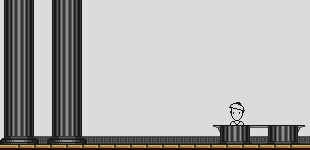
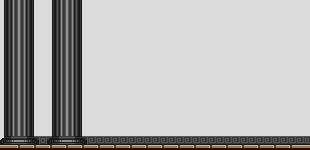
Added Paintings

Changed region(s): [[0.6677, 0.6667, 1.0, 0.96]]

diff --git a/assets/js/ai/main.js b/assets/js/ai/main.js
@@ -1,5 +1,6 @@
 var aiDir = "right";
 var walkInterval;
+var aiWalkDuration = 11000;
 
 function loadAI() {
   $("#ai").animateSprite({
@@ -13,22 +14,26 @@ function loadAI() {
     }
   });
 
+  walkInterval = setInterval(function(){ $('#ai').animate({left: '+=20'}, 200); }, 200);
+  $('#ai').removeClass("turn-left");
+  $('#ai').addClass("turn-right");
+  aiDir = "left";
+
   setInterval(
     function(){
       clearInterval(walkInterval);
       $("#ai").stop(true);
-      console.log(aiDir);
       if (aiDir == "right") {
-        walkInterval = setInterval(function(){ $('#ai').animate({left: '+=20'}, charSpeed); }, 40);
+        walkInterval = setInterval(function(){ $('#ai').animate({left: '+=20'}, 200); }, 200);
         $('#ai').removeClass("turn-left");
         $('#ai').addClass("turn-right");
         aiDir = "left";
       } else if (aiDir == "left") {
-        walkInterval = setInterval(function(){ $('#ai').animate({left: '-=20'}, charSpeed); }, 40);
+        walkInterval = setInterval(function(){ $('#ai').animate({left: '-=20'}, 200); }, 200);
         $('#ai').removeClass("turn-right");
         $('#ai').addClass("turn-left");
         aiDir = "right";
       }
-    }, 3000
+    }, aiWalkDuration
   );
 }

diff --git a/assets/css/game/game.css b/assets/css/game/game.css
@@ -81,9 +81,39 @@
 
   position: absolute;
   bottom: 105px;
-	left: 200px;
+	left: 300px;
 
-  z-index: 500;
+  z-index: 400;
+
+  cursor: pointer;
+}
+
+.painting {
+  position: absolute;
+  top: 28%;
+  left: 40%;
+  width: 700px;
+  height: 300px;
+}
+
+.painting img {
+  width: 100%;
+  height: auto;
+}
+
+.text-bubble {
+  position: absolute;
+  top: -35px;
+  left: -30px;
+  width: 75px;
+  height: 30px;
+  font-size: 0.3em;
+  padding: 2px 5px 10px 5px;
+  background: url("../../img/game/textbubble.png") no-repeat center center;
+  -webkit-background-size: contain;
+  -moz-background-size: contain;
+  -o-background-size: contain;
+  background-size: contain;
 }
 
 .inventory-container {
@@ -145,6 +175,14 @@
 
 .turn-right {
   transform: scale(6,6) rotateY(0deg)!important;
+}
+
+.turn-right > .text-bubble {
+  transform: rotateY(0deg)!important;
+}
+
+.turn-left > .text-bubble {
+  transform: rotateY(180deg)!important;
 }
 
 #overlay {

diff --git a/index.html b/index.html
@@ -99,7 +99,7 @@
     <div id="load">
       <div class="load-bar">
         <div class="inner">
-
+          
         </div>
       </div>
     </div>

diff --git a/content/room.php b/content/room.php
@@ -5,16 +5,25 @@
     "test-sword"
   );
   $r_array = $item[array_rand($item)];
+  $painting = array(
+    "1",
+    "1",
+    "1"
+  );
+  $r_painting = $painting[array_rand($painting)];
 ?>
     <div class="room <?php if ($room == 0) {echo "room-0";} else {echo "room-1";} ?>">
       <div id="overlay">
+        <?php if ($room != 0) { ?>
         <div class="pickup-item" data-item="<?php echo $r_array; ?>" data-name="Test Salad \o/" style="left: <?php echo rand(0, 100); ?>%;">
           <img src="assets/img/game/items/<?php echo $r_array; ?>.png" alt="Test Salad" class="hover"/>
         </div>
+        <?php } ?>
       </div>
       <?php
         if ($room == 0) {
-          echo "<div id='ai'></div>";
+          echo "<div id='ai'><div class='text-bubble'>Find me the missing pieces of this painting</div></div>";
+          echo "<div class='painting'><img src='assets/img/paintings/" . $r_painting . ".png'></div>";
         }
       ?>
     </div>

diff --git a/content/game.php b/content/game.php
@@ -19,7 +19,7 @@
     </div>
   </div>
   <div id="character">
-
+    
   </div>
   <div class="room-container">
 
